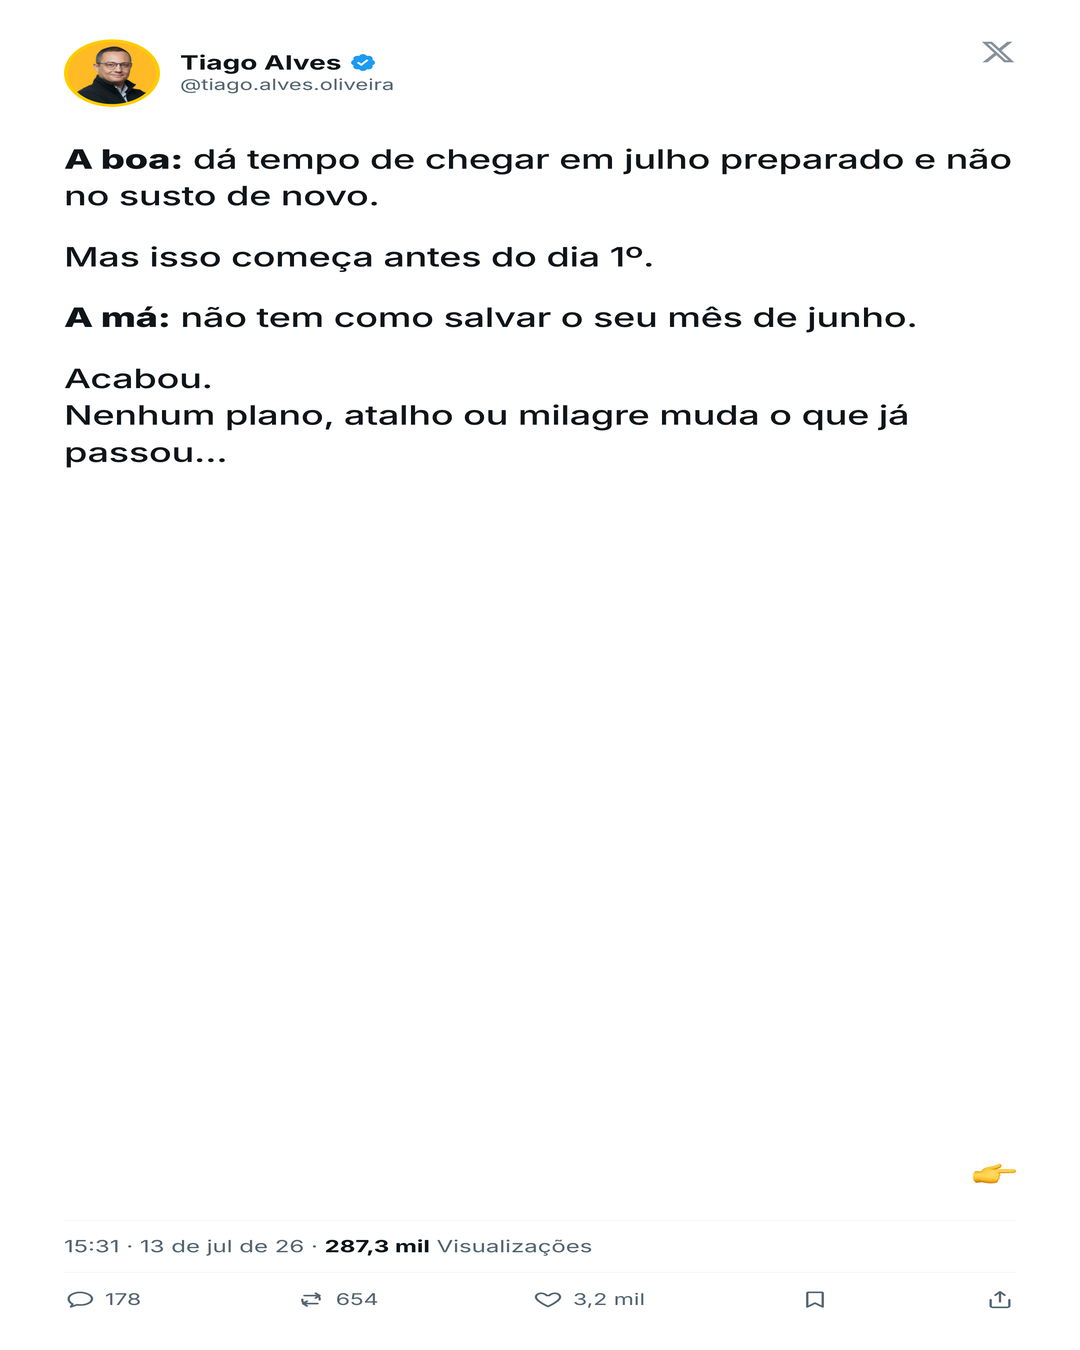
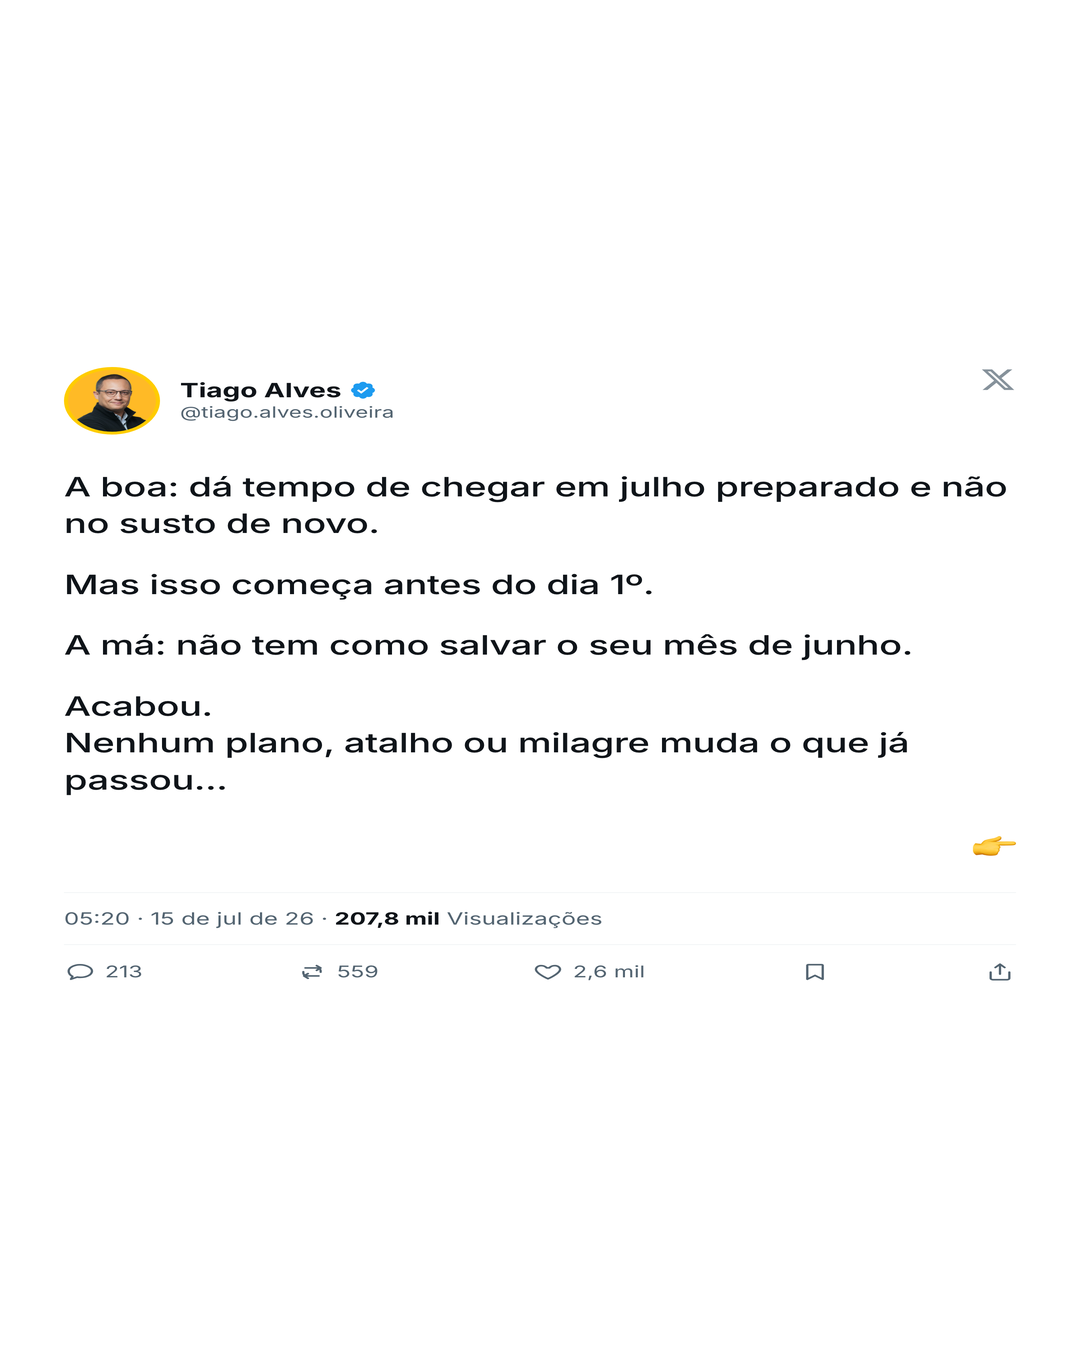
fix(tweet-tiago): bloco centralizado — mata o vazio branco do meio
O tweet renderizava a mensagem colada no topo com a barra de engajamento
presa no rodapé (flex:1 no .tw-text), criando um vão branco enorme no meio
— parecia "esticado, só no meio, não completa" (feedback do Nathan).

Fix: parent com justify-content:center + .tw-text flex:0 0 auto, então o
bloco inteiro (header + mensagem + timestamp + engajamento) centraliza como
unidade, equilibrado. Vale pra mensagem única e multi-parágrafo. O variant
com imagem não regride (o embed segue com flex:1, preenchendo o quadro).

diff --git a/source/ad-blueprints/_engine.css b/source/ad-blueprints/_engine.css
@@ -669,7 +669,10 @@ button { all: unset; }
 .ad[data-marca="tiago"][data-arch="tiago-story-minimal"] .tmq-subhead { font-size: 28px; line-height: 1.4; color: var(--t-white); opacity: .85; margin: 0; }
 
 /* (T12) tiago-twitter — mock feed Twitter texto-only */
-.ad[data-marca="tiago"][data-arch="tiago-twitter"] { background: var(--t-white); padding: 56px 64px; display: flex; flex-direction: column; }
+/* bloco inteiro (header+mensagem+engajamento) centralizado como unidade —
+   mata o vazio branco que sobrava entre a mensagem e a barra de engajamento
+   presa no rodapé (feedback: "esticada, conteúdo só no meio, não completa"). */
+.ad[data-marca="tiago"][data-arch="tiago-twitter"] { background: var(--t-white); padding: 56px 64px; display: flex; flex-direction: column; justify-content: center; }
 .ad[data-marca="tiago"][data-arch="tiago-twitter"] .tw-header { display: flex; align-items: center; gap: 20px; margin-bottom: 40px; }
 .ad[data-marca="tiago"][data-arch="tiago-twitter"] .tw-avatar { width: 96px; height: 96px; border-radius: 50%; background: var(--t-yellow); display: flex; align-items: center; justify-content: center; flex-shrink: 0; border: 4px solid var(--t-yellow); }
 .ad[data-marca="tiago"][data-arch="tiago-twitter"] .tw-avatar-initial { font-size: 52px; color: var(--t-ink); line-height: 1; font-weight: 700; }
@@ -680,7 +683,7 @@ button { all: unset; }
 .ad[data-marca="tiago"][data-arch="tiago-twitter"] .tw-verified { width: 28px; height: 28px; flex-shrink: 0; }
 .ad[data-marca="tiago"][data-arch="tiago-twitter"] .x-logo { width: 36px; height: 36px; margin-left: auto; align-self: flex-start; color: var(--t-grey); opacity: .7; }
 .ad[data-marca="tiago"][data-arch="tiago-twitter"] .tw-handle { font-size: 22px; color: var(--t-grey); line-height: 1.2; }
-.ad[data-marca="tiago"][data-arch="tiago-twitter"] .tw-text { display: flex; flex-direction: column; gap: 24px; flex: 1; justify-content: center; }
+.ad[data-marca="tiago"][data-arch="tiago-twitter"] .tw-text { display: flex; flex-direction: column; gap: 24px; flex: 0 0 auto; justify-content: center; }
 /* multi-parágrafo (post real de reflexão: vários blocos curtos, não 1 bloco
    esticado no centro) — cada linha em branco no textarea vira um bloco. */
 .ad[data-marca="tiago"][data-arch="tiago-twitter"] .tw-text--multi { justify-content: flex-start; padding-top: 8px; gap: 34px; }
